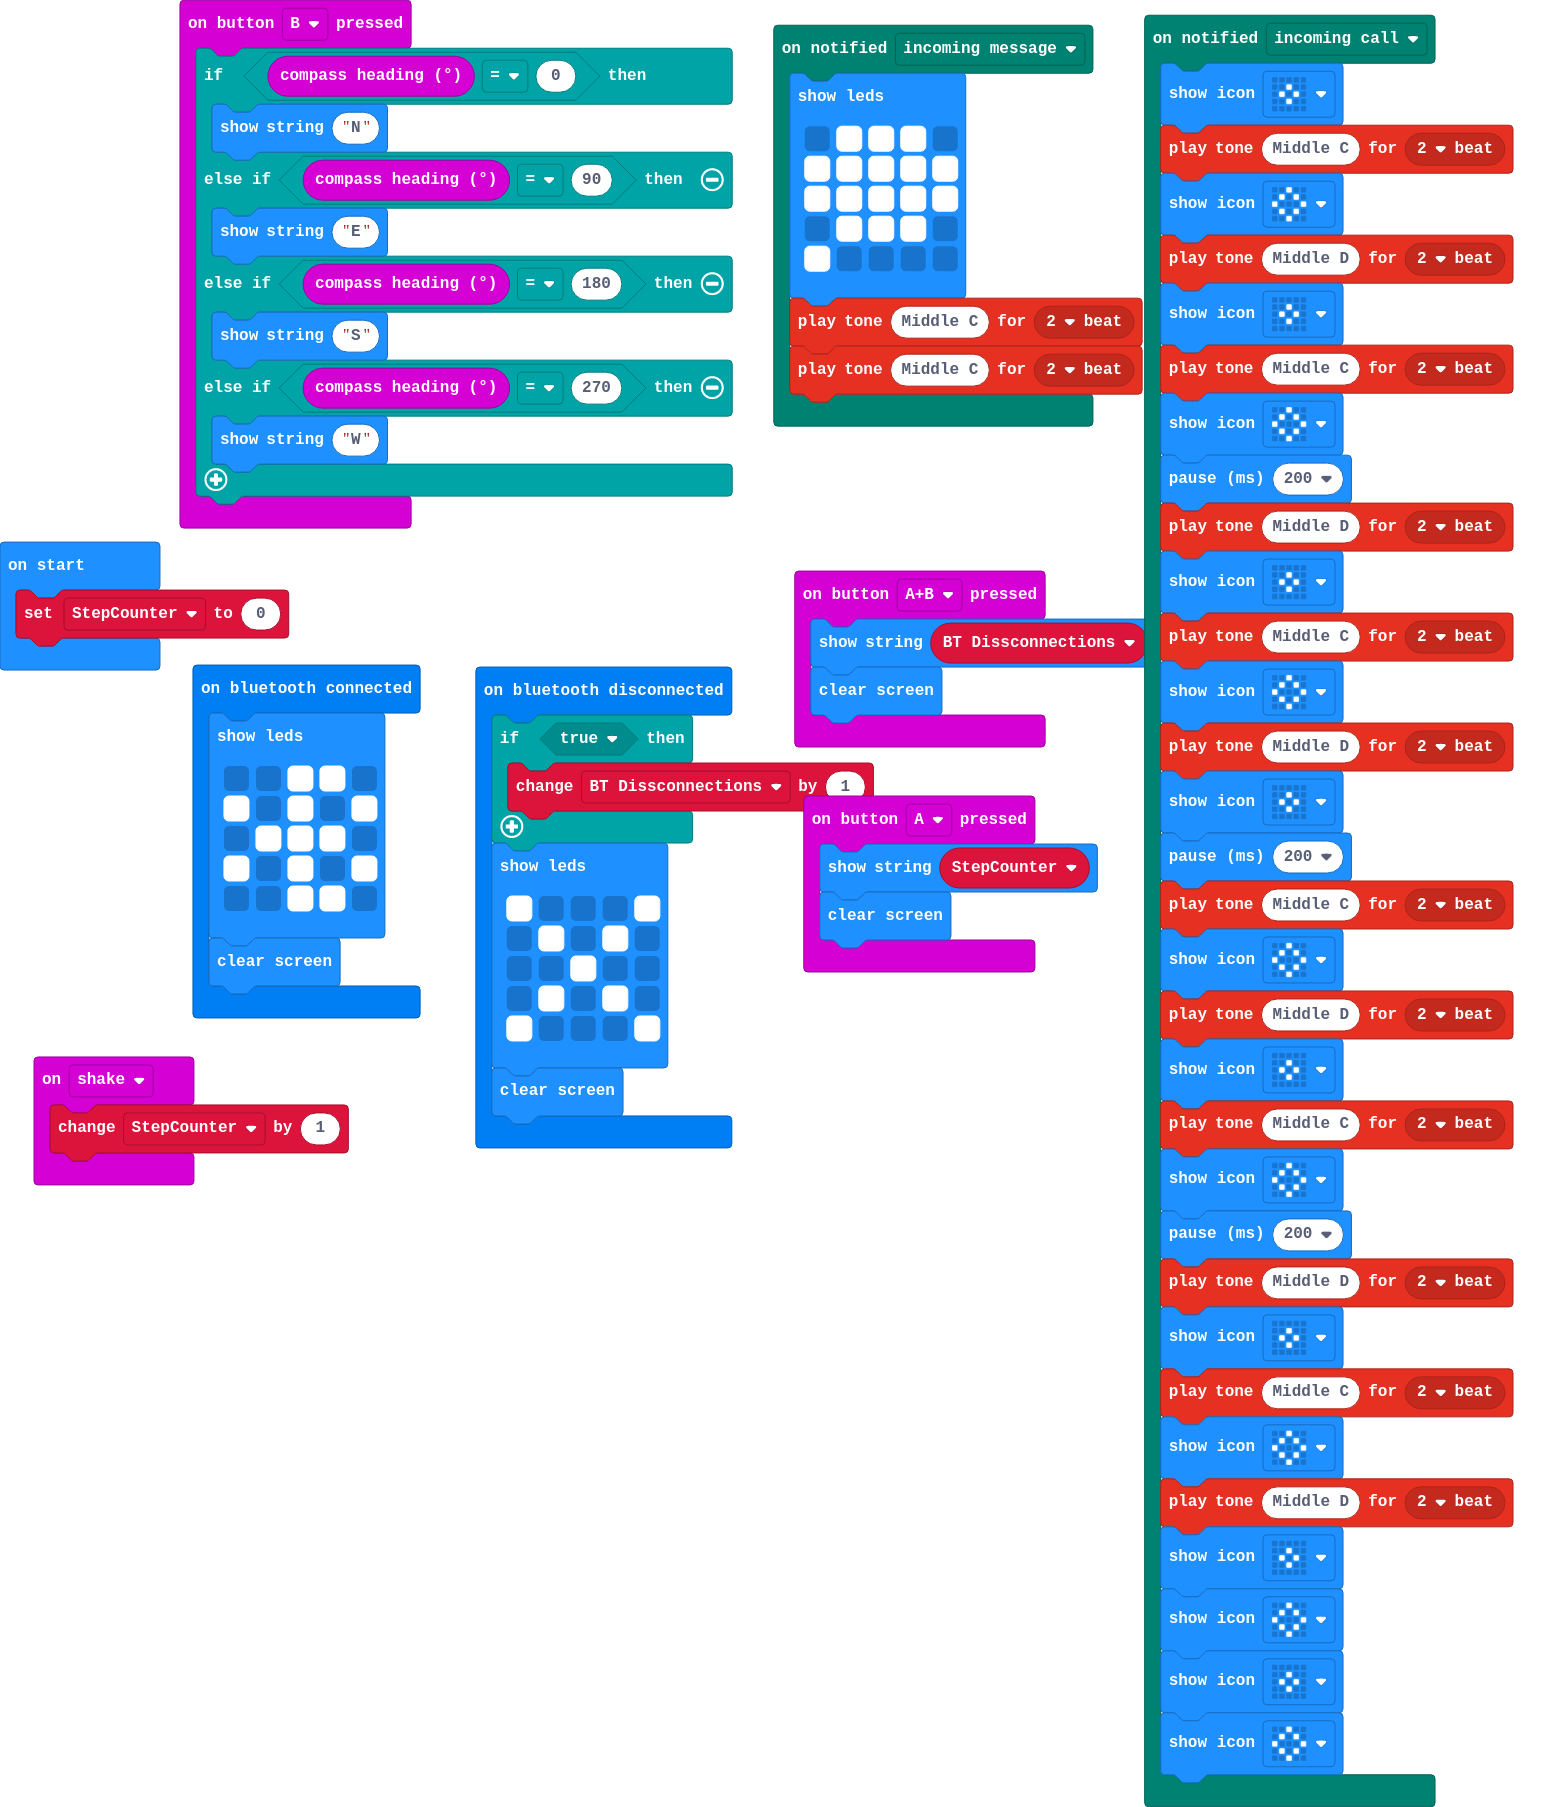
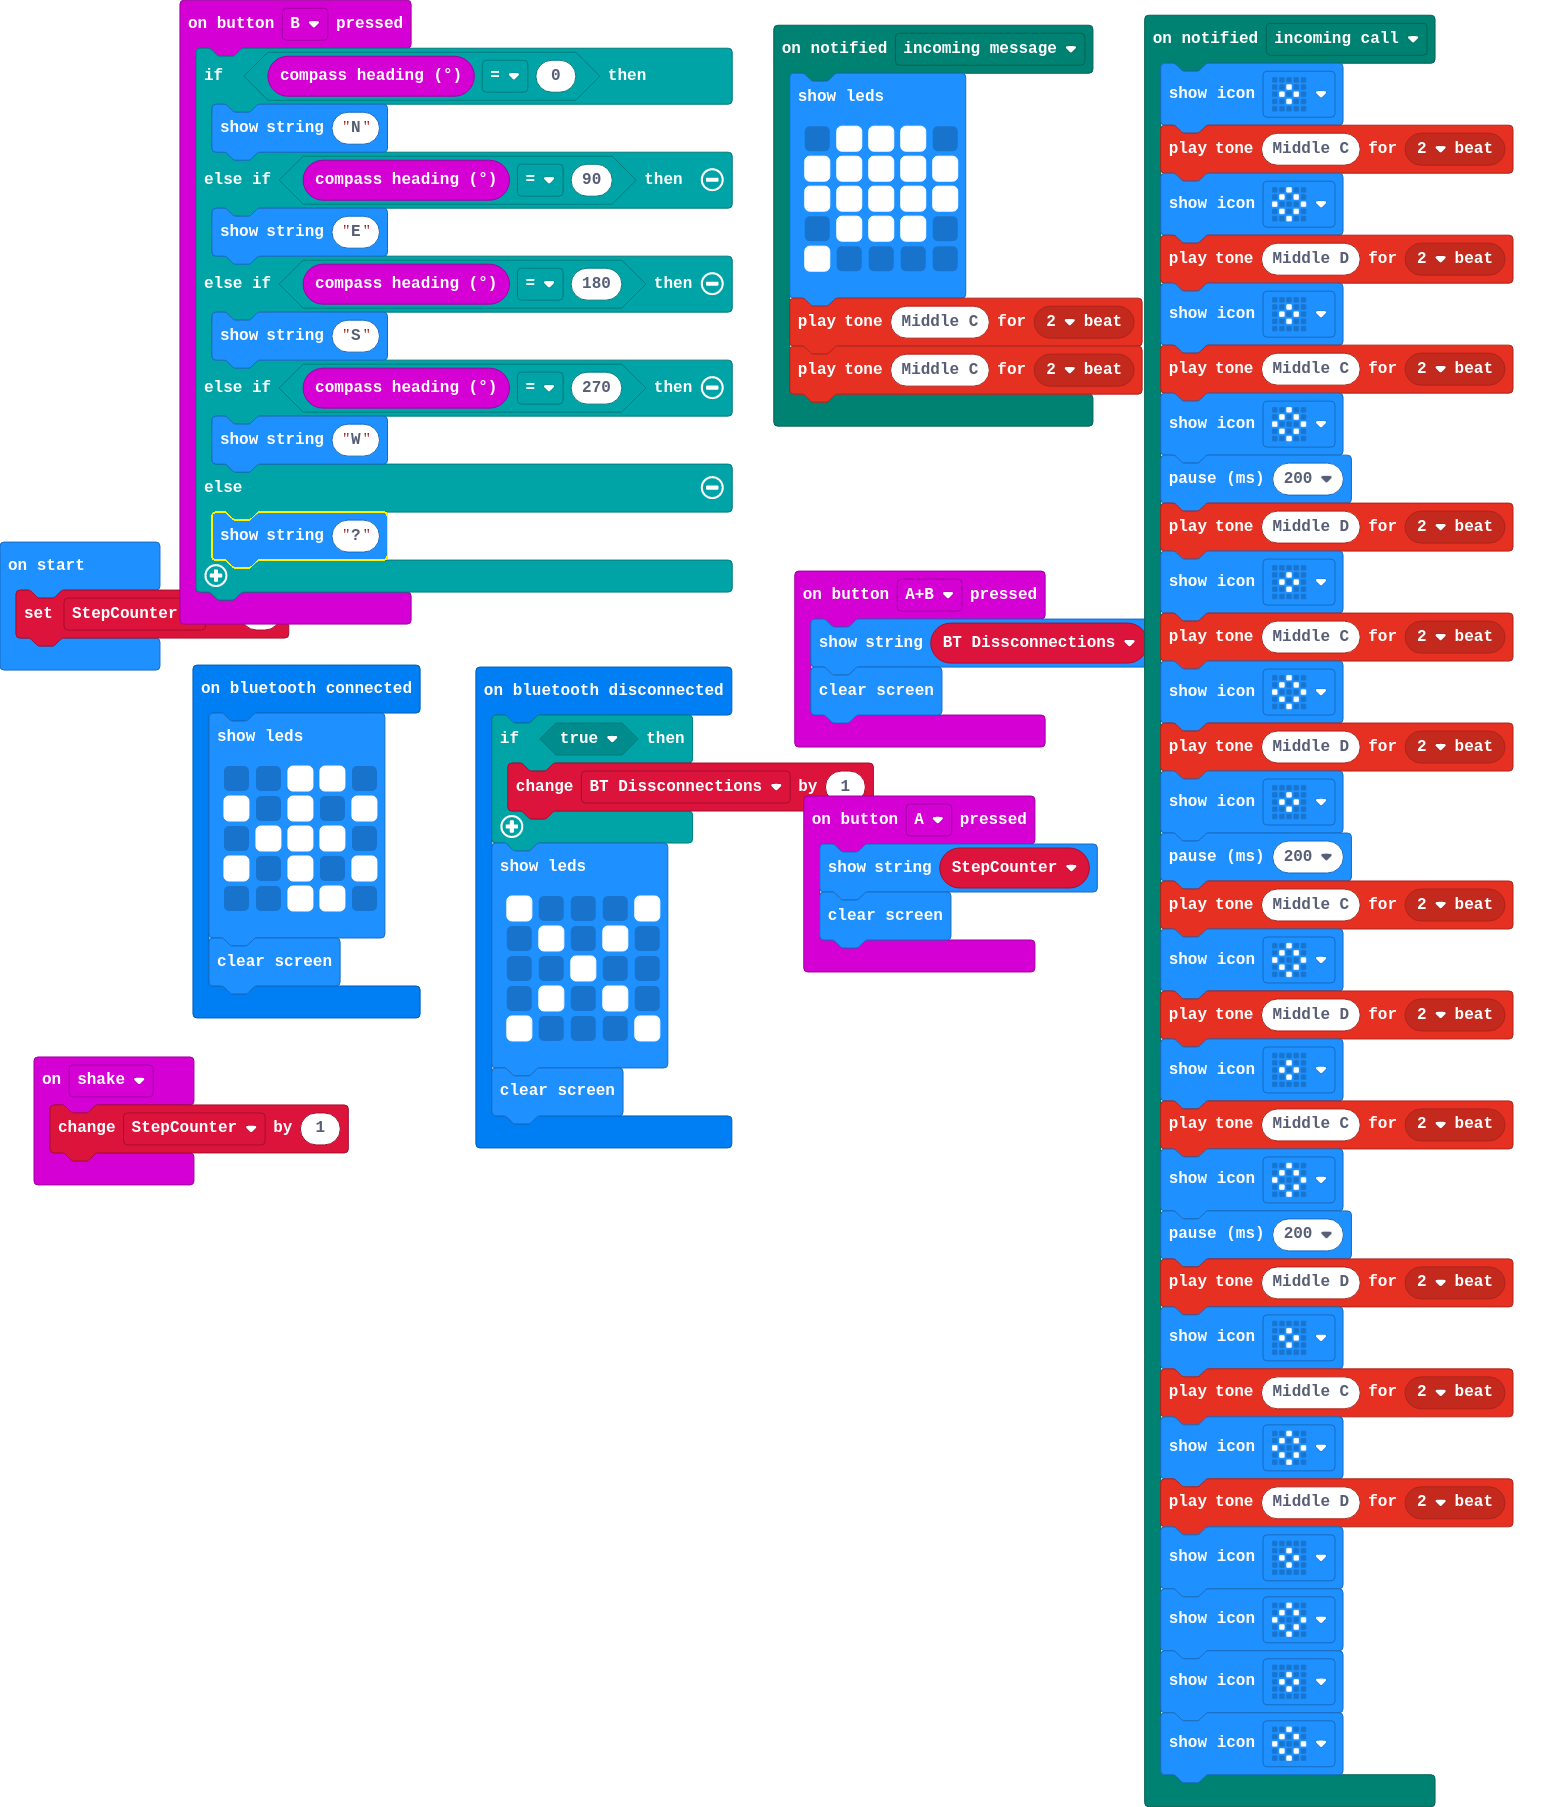
support to show when you are at an unknown location

Changed region(s): [[0.092, 0.2479, 0.4907, 0.3719]]

diff --git a/main.ts b/main.ts
@@ -71,6 +71,8 @@ input.onButtonPressed(Button.B, function () {
         basic.showString("S")
     } else if (input.compassHeading() == 270) {
         basic.showString("W")
+    } else {
+        basic.showString("?")
     }
 })
 input.onGesture(Gesture.Shake, function () {
